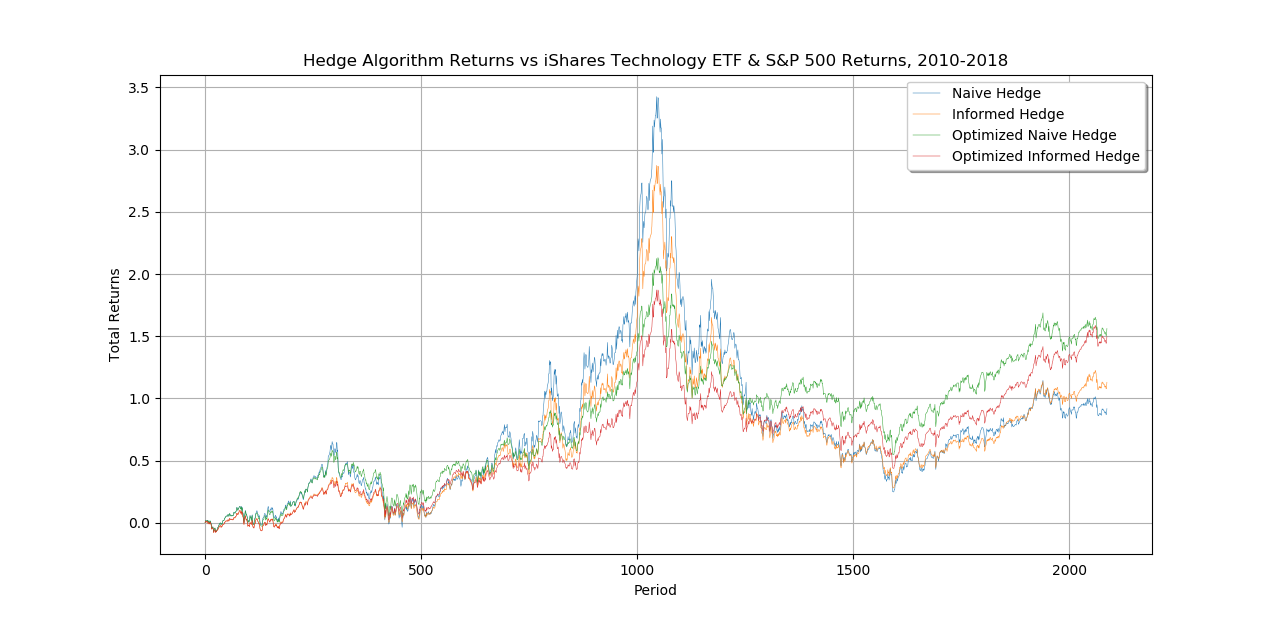
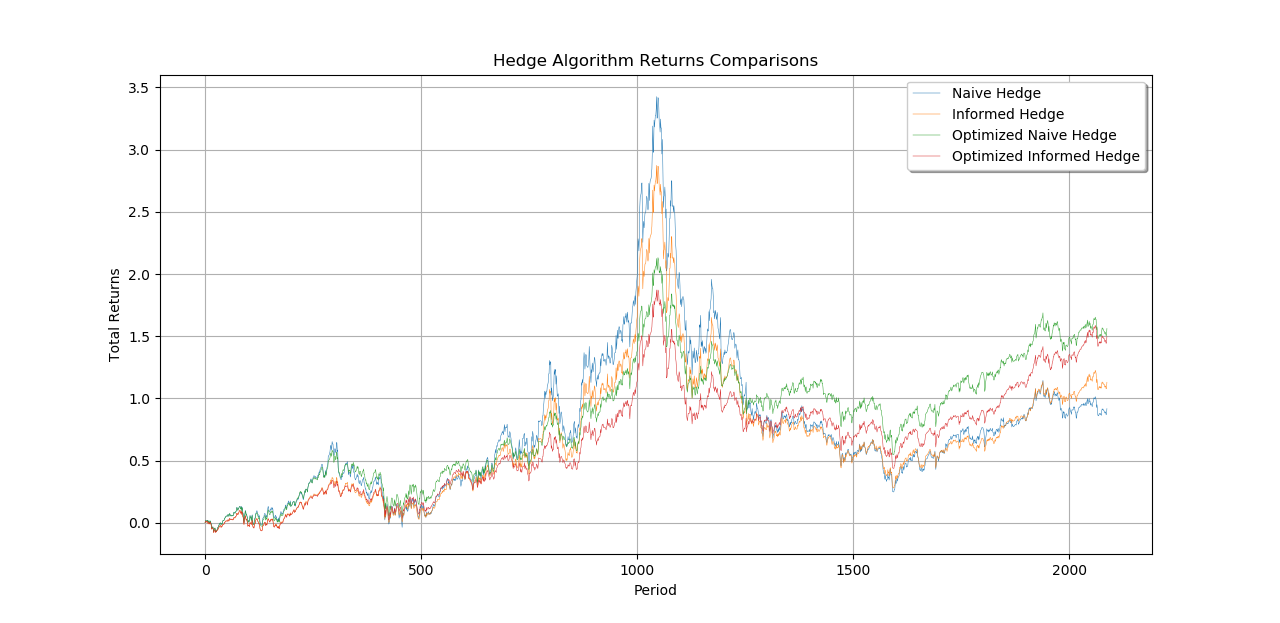
Changing one graph

Changed region(s): [[0.2188, 0.0915, 0.7812, 0.122]]

diff --git a/hedgeAlgorithm.py b/hedgeAlgorithm.py
@@ -321,7 +321,7 @@ def plotComparisonsWithMarket(naiveReturns=None, informedReturns=None, naiveOpti
         plt.plot(range(2088), naiveOptimizedReturns[0:2088], label='Optimized Naive Hedge', linewidth = 0.35)
     if informedOptimizedReturns:
         plt.plot(range(2088), informedOptimizedReturns[0:2088], label='Optimized Informed Hedge', linewidth = 0.35)
-    plt.title('Hedge Algorithm Returns vs iShares Technology ETF & S&P 500 Returns, 2010-2018')
+    plt.title('Hedge Algorithm Returns Comparisons')
     legend = plt.legend(loc='upper right', shadow=True)
     plt.xlabel('Period')
     plt.ylabel('Total Returns')

diff --git a/README.md b/README.md
@@ -9,3 +9,5 @@ the effectiveness of our algorithms based off industry-standard metrics used wit
 
 We have included several photos of our graphs, which display our results along with our compiled datasets, and an Excel
 spreadsheet (hedgeResults&Discussion.xlsx) that displays our result statistics along with a discussion.
+
+Algorithms/algorithms-project/informedHedge_vs_sp500&iShares.png
